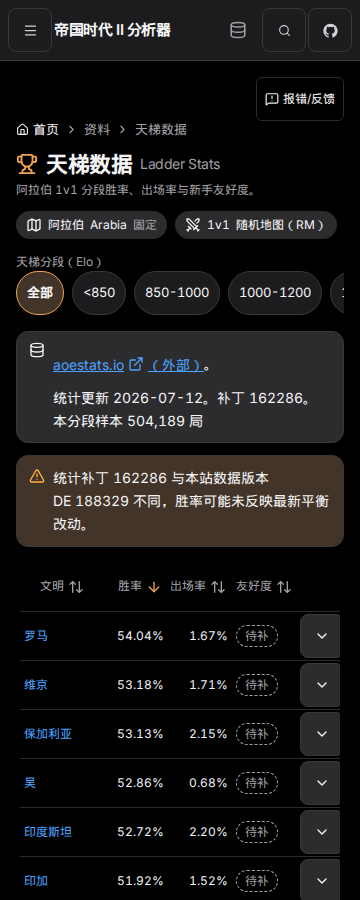
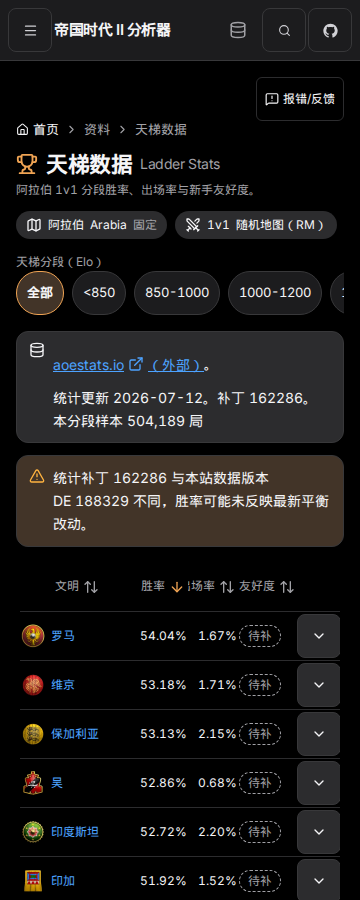
fix(#33): 360 宽保留文明图标并收窄数字列
视口窄于 375 时不再藏起文明图标。胜率、出场率和友好度列变窄，中文名连图标一起完整显示。

diff --git a/src/features/ladder/ladder.css b/src/features/ladder/ladder.css
@@ -487,9 +487,21 @@
     font-size: 12px;
   }
 }
-/* 360 宽藏起文明图标，把列宽留给中文名（保加利亚、埃塞俄比亚）。375 及以上仍显示图标。 */
+/* 360：文明图标保留。收窄胜率、出场率、友好度，把宽度让给中文名。 */
 @media (max-width: 374px) {
-  .ladder-civ .ico {
-    display: none;
+  .ladder-col-win {
+    width: 54px;
+  }
+  .ladder-col-play {
+    width: 50px;
+  }
+  .ladder-col-tier {
+    width: 58px;
+  }
+  .ladder-col-expand {
+    width: 44px;
+  }
+  .ladder-table :is(td, th) {
+    padding-inline: 1px;
   }
 }
